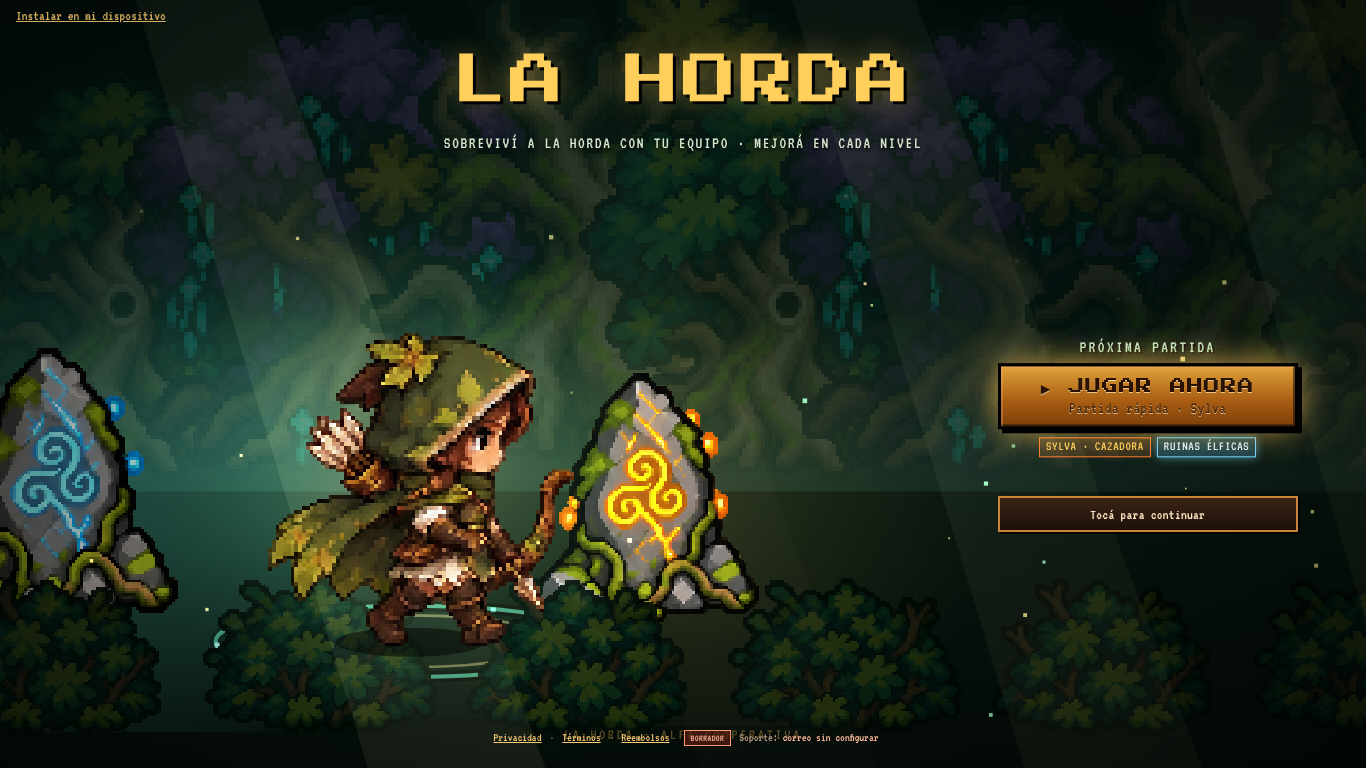
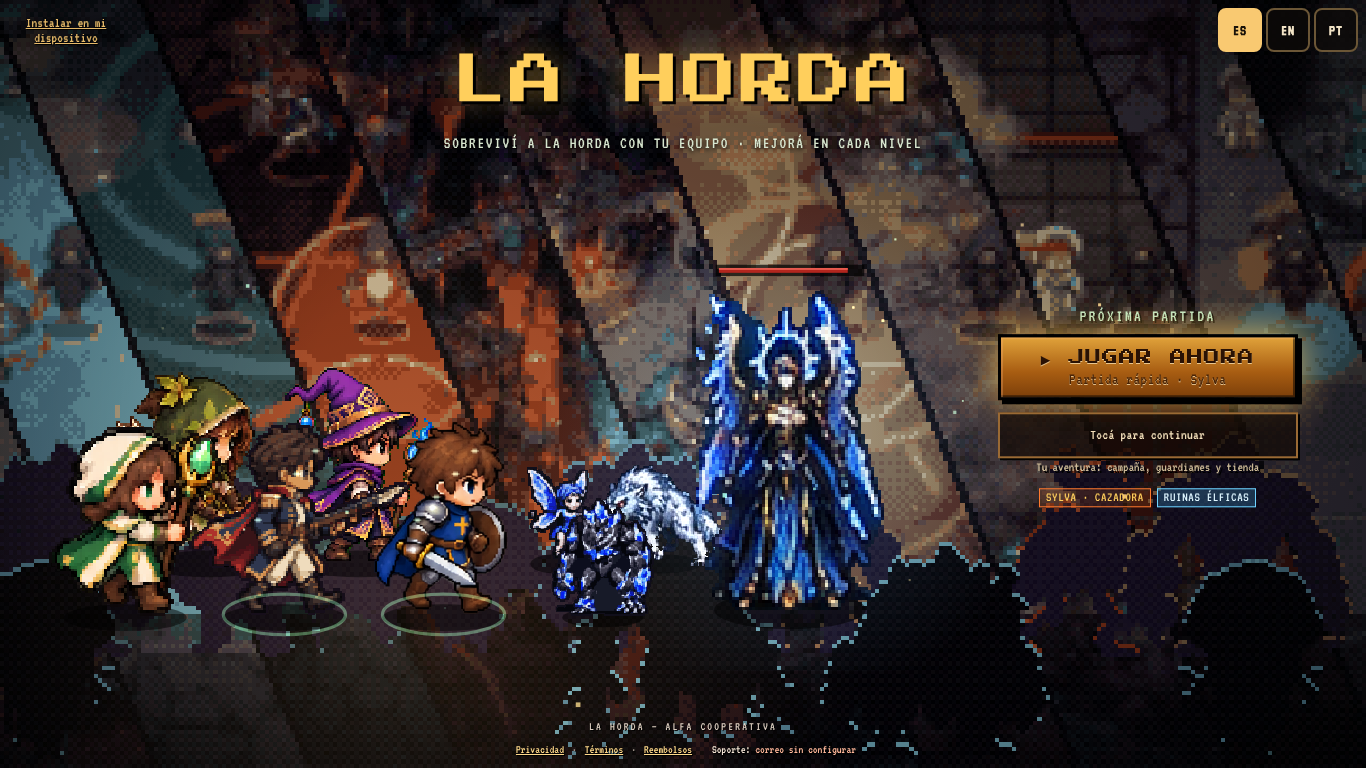
Título: columna de CTA con hermanos (#bt-cta / #bt-menu) para respetar el contrato three-ui-contracts; test i18n espera la carga del diccionario
Claude-Session: https://claude.ai/code/session_01LxJEcjGHLngn4o4wPZAHs2

diff --git a/css/title-polish.css b/css/title-polish.css
@@ -1,20 +1,20 @@
 /* css/title-polish.css — pantalla de título ordenada (carga tras menu-polish-d.css).
    Una sola columna de acción (JUGAR AHORA + acceso al menú/campaña), idioma arriba a la derecha, enlaces y pie apilados sin pisarse.
    Todo cuelga de #title-screen.bt-title; los nodos (#title-continue-btn, .lang-host, .legal-title, .build-tag) conservan id y eventos. */
-#title-screen.bt-title #bt-cta{ gap:10px; }
-#title-screen.bt-title #bt-cta .bt-cta-menu{ display:flex; flex-direction:column; align-items:stretch; gap:3px; }
+#title-screen.bt-title #bt-col{ gap:10px; }
+#title-screen.bt-title #bt-col .bt-cta-menu{ display:flex; flex-direction:column; align-items:stretch; gap:3px; }
 /* acceso al menú: mismo ancho que JUGAR AHORA, estilo secundario pero bien visible (anula beta-visual.css y ui-rework.css) */
-body #title-screen.bt-title #bt-cta #title-continue-btn{
+body #title-screen.bt-title #bt-col #title-continue-btn{
   position:static !important; max-width:none !important; inset:auto !important; transform:none !important; width:100% !important; height:auto !important; margin:0 !important;
   min-height:48px; padding:8px 12px; font-size:.95rem !important; line-height:1.2; letter-spacing:.04em; text-align:center; opacity:1;
   color:#ffe9c4; background:linear-gradient(180deg,#3a2415,#1d1009); border:3px solid #c9843a; box-shadow:var(--ui-bevel, none), 3px 3px 0 #000; z-index:4;
 }
-body #title-screen.bt-title #bt-cta #title-continue-btn::after{ content:none !important; display:none !important; }
-body #title-screen.bt-title #bt-cta #title-continue-btn:disabled{ opacity:.65; }
-body #title-screen.bt-title #bt-cta #title-continue-btn:not(:disabled):hover{ filter:brightness(1.15); }
-body #title-screen.bt-title #bt-cta #title-continue-btn:not(:disabled):active{ transform:translate(2px,2px) !important; box-shadow:1px 1px 0 #000; }
+body #title-screen.bt-title #bt-col #title-continue-btn::after{ content:none !important; display:none !important; }
+body #title-screen.bt-title #bt-col #title-continue-btn:disabled{ opacity:.65; }
+body #title-screen.bt-title #bt-col #title-continue-btn:not(:disabled):hover{ filter:brightness(1.15); }
+body #title-screen.bt-title #bt-col #title-continue-btn:not(:disabled):active{ transform:translate(2px,2px) !important; box-shadow:1px 1px 0 #000; }
 .bt-cta-menu-sub{ font-family:var(--ui-font, var(--font-retro)); font-size:1rem; line-height:1.1; color:#d9c7a4; text-shadow:2px 2px 0 #000; text-align:center; }
-#title-screen.bt-title #bt-cta .bt-cta-meta{ margin-top:2px; }
+#title-screen.bt-title #bt-col .bt-cta-meta{ margin-top:2px; }
 
 /* idioma: esquina superior derecha, compacto, 44 px de alto */
 #title-screen.bt-title > .lang-host{ position:absolute; top:max(8px, env(safe-area-inset-top)); right:max(8px, env(safe-area-inset-right)); margin:0; z-index:6; justify-content:flex-end; }
@@ -37,11 +37,15 @@ body #title-screen.bt-title > .build-tag{ bottom:calc(52px + env(safe-area-inset
   body #title-screen.bt-title > .build-tag{ bottom:calc(36px + env(safe-area-inset-bottom, 0px)); }
 }
 @media (max-height:420px){
-  #title-screen.bt-title #bt-cta{ gap:6px; width:min(270px, 44vw); top:46%; }
-  body #title-screen.bt-title #bt-cta #title-continue-btn{ min-height:46px; padding:6px 10px; font-size:.85rem !important; }
+  #title-screen.bt-title #bt-col{ gap:6px; width:min(270px, 44vw); top:46%; }
+  body #title-screen.bt-title #bt-col #title-continue-btn{ min-height:46px; padding:6px 10px; font-size:.85rem !important; }
   .bt-cta-menu-sub{ font-size:.9rem; }
 }
 @media (orientation:portrait){
-  #title-screen.bt-title #bt-cta{ bottom:16%; }
+  #title-screen.bt-title #bt-col{ bottom:16%; }
 }
 @media (max-height:420px){ #title-screen.bt-title #bt-cta .bt-cta-kick{ display:none; } }
+/* #bt-col (posición) contiene #bt-cta (kicker + JUGAR AHORA) y #bt-menu (continuar + chips): hermanos sin superposición */
+#title-screen.bt-title #bt-cta, #title-screen.bt-title #bt-menu{ display:flex; flex-direction:column; align-items:stretch; gap:inherit; }
+#title-screen.bt-title #bt-col{ gap:10px; }
+@media (max-height:520px){ #title-screen.bt-title #bt-col{ gap:6px; } }

diff --git a/js/beta/beta-ui.js b/js/beta/beta-ui.js
@@ -71,17 +71,21 @@
   const bg = document.createElement("div"); bg.id = "bt-bg"; bg.setAttribute("aria-hidden", "true");
   bg.innerHTML = '<div class="bt-bg-shade"></div>';
   const cv = document.createElement("canvas"); cv.id = "bt-hero-cv"; cv.setAttribute("aria-hidden", "true");
+  // #bt-col posiciona la columna; #bt-cta (kicker + JUGAR AHORA) y #bt-menu (acceso al menú/campaña + chips) son hermanos: no se superponen
+  const col = document.createElement("div"); col.id = "bt-col";
   const cta = document.createElement("div"); cta.id = "bt-cta";
   cta.innerHTML = '<div class="bt-cta-kick">PRÓXIMA PARTIDA</div>' +
-    '<button type="button" id="bt-play" class="btn bt-play" disabled><span class="bt-play-main">Cargando…</span><span class="bt-play-sub"></span></button>' +
-    '<div class="bt-cta-menu"><div class="bt-cta-menu-sub">Campaña, guardianes y tienda</div></div>' +
+    '<button type="button" id="bt-play" class="btn bt-play" disabled><span class="bt-play-main">Cargando…</span><span class="bt-play-sub"></span></button>';
+  const menuWrap = document.createElement("div"); menuWrap.id = "bt-menu";
+  menuWrap.innerHTML = '<div class="bt-cta-menu"><div class="bt-cta-menu-sub">Campaña, guardianes y tienda</div></div>' +
     '<div class="bt-cta-meta"><span class="ui-tag">Sylva · Cazadora</span><span class="ui-tag new">Ruinas Élficas</span></div>';
+  col.appendChild(cta); col.appendChild(menuWrap);
   scr.insertBefore(bg, scr.firstChild);
   const canvas0 = $("title-canvas");
   if(canvas0) canvas0.insertAdjacentElement("afterend", cv); else scr.appendChild(cv);
-  scr.appendChild(cta);
-  // el acceso al menú/campaña (mismo nodo, mismo id y eventos) pasa a la columna del CTA, justo bajo JUGAR AHORA
-  const contBtn0 = $("title-continue-btn"), menuBox = cta.querySelector(".bt-cta-menu");
+  scr.appendChild(col);
+  // el acceso al menú/campaña (mismo nodo, mismo id y eventos) va justo bajo JUGAR AHORA, en #bt-menu
+  const contBtn0 = $("title-continue-btn"), menuBox = menuWrap.querySelector(".bt-cta-menu");
   if(contBtn0 && menuBox) menuBox.insertBefore(contBtn0, menuBox.firstChild);
   scr.classList.add("bt-title");
 

diff --git a/css/beta-visual.css b/css/beta-visual.css
@@ -14,7 +14,7 @@
 .bt-title .title-brand{ text-shadow:3px 3px 0 #000, 0 0 28px rgba(255,200,90,.45); z-index:3; }
 .bt-title .brand-sub{ color:#d8e6cf; z-index:3; }
 
-#title-screen > #bt-cta{
+#title-screen > #bt-col{
   position:absolute; z-index:4; right:max(5%, env(safe-area-inset-right)); top:50%; transform:translateY(-38%);
   width:min(300px, 40vw); display:flex; flex-direction:column; align-items:stretch; gap:8px; text-align:center;
   animation:btCtaIn .7s var(--ui-ease, ease) .15s both;
@@ -45,14 +45,14 @@
 }
 .bt-title #title-continue-btn:disabled{ opacity:.6; }
 .bt-title.bt-launch > *{ transition:opacity .5s, filter .5s; }
-.bt-title.bt-launch #bt-cta, .bt-title.bt-launch #title-continue-btn{ opacity:0; }
+.bt-title.bt-launch #bt-col, .bt-title.bt-launch #title-continue-btn{ opacity:0; }
 .bt-title.bt-launch #bt-hero-cv{ transform:scale(1.18); transition:transform .55s cubic-bezier(.5,0,.2,1), opacity .5s; opacity:.0; }
 .bt-title.bt-launch #bt-hero-cv{ opacity:0; transition:opacity .4s; }
 @media (max-height:420px){
-  #title-screen > #bt-cta{ width:min(260px, 42vw); gap:5px; }
+  #title-screen > #bt-col{ width:min(260px, 42vw); gap:5px; }
   .bt-play{ min-height:54px; padding:8px 10px 6px; } .bt-play-main{ font-size:.85rem; } .bt-cta-kick{ font-size:.9rem; }
 }
-@media (orientation:portrait){ #title-screen > #bt-cta{ right:50%; transform:translate(50%,0); top:auto; bottom:18%; width:min(320px, 80vw); animation:none; } }
+@media (orientation:portrait){ #title-screen > #bt-col{ right:50%; transform:translate(50%,0); top:auto; bottom:18%; width:min(320px, 80vw); animation:none; } }
 @media (prefers-reduced-motion:reduce){ #bt-bg, .bt-play, .bt-play::after{ animation:none !important; } }
 body.reduce-motion .bt-play, body.reduce-motion .bt-play::after{ animation:none !important; }
 

diff --git a/css/ux-simplify-b.css b/css/ux-simplify-b.css
@@ -5,13 +5,13 @@
    ============================================================ */
 
 /* ---------- TÍTULO: JUGAR AHORA manda; "Tocá para continuar" es secundario ---------- */
-html body #title-screen.bt-title #bt-cta #title-continue-btn{
+html body #title-screen.bt-title #bt-col #title-continue-btn{
   min-height:44px; padding:6px 10px; font-size:.8rem !important; letter-spacing:.02em; font-weight:400;
   color:#f2dfba; background:rgba(18,10,6,.72); border:2px solid #9a6a34; box-shadow:2px 2px 0 #000; }
-html body #title-screen.bt-title #bt-cta #title-continue-btn:disabled{ opacity:.65; }
-html body #title-screen.bt-title #bt-cta .bt-cta-menu{ gap:2px; margin-top:2px; }
-html body #title-screen.bt-title #bt-cta .bt-cta-menu-sub{ font-size:.85rem; color:#cdbb98; line-height:1.15; }
-@media (min-width:900px) and (min-height:560px){ html body #title-screen.bt-title #bt-cta #title-continue-btn{ font-size:.9rem !important; min-height:46px; } }
+html body #title-screen.bt-title #bt-col #title-continue-btn:disabled{ opacity:.65; }
+html body #title-screen.bt-title #bt-col .bt-cta-menu{ gap:2px; margin-top:2px; }
+html body #title-screen.bt-title #bt-col .bt-cta-menu-sub{ font-size:.85rem; color:#cdbb98; line-height:1.15; }
+@media (min-width:900px) and (min-height:560px){ html body #title-screen.bt-title #bt-col #title-continue-btn{ font-size:.9rem !important; min-height:46px; } }
 
 /* ---------- HUB: cabecera ---------- */
 #mainmenu-screen .hub-top .ux-help-btn{ width:auto; min-width:44px; padding:0 10px; display:inline-flex; align-items:center; gap:6px; }

diff --git a/tools/i18n/test-i18n.js b/tools/i18n/test-i18n.js
@@ -33,7 +33,7 @@ const fail=[];const ok=(c,m)=>{if(!c){fail.push(m);console.log('FAIL',m);}else c
   await boot('?lang=en');ok(await page.evaluate(()=>I18N.lang)==='en','?lang=en manda sobre lo guardado');
   // números: plantillas {n} conservan los valores
   const t=await page.evaluate(()=>I18N.t('Vida 3/10'));ok(t==='Health 3/10','plantilla numérica: '+t);
-  const p=await page.evaluate(async()=>{I18N.setLang('pt');await new Promise(r=>setTimeout(r,50));return I18N.t('Ilkan, el Caminante de Dunas · colección');});ok(/coleção/.test(p)&&/Caminhante/.test(p),'patrón de colección PT: '+p);
+  await page.evaluate(()=>I18N.setLang('pt'));await page.waitForFunction(()=>I18N.lang==='pt',null,{timeout:20000});const p=await page.evaluate(()=>{return I18N.t('Ilkan, el Caminante de Dunas · colección');});ok(/coleção/.test(p)&&/Caminhante/.test(p),'patrón de colección PT: '+p);
   // canvas
   const cv=await page.evaluate(()=>{const c=document.createElement('canvas').getContext('2d');let out='';const o=c.fillText;c.fillText('Pausa',0,0);return c.measureText('Pausar partida').width>0;});ok(cv,'canvas sigue midiendo texto traducido');
   ok(errs.length===0,'sin errores de página '+errs.slice(0,2));

diff --git a/css/ui-factory/menus-touch.css b/css/ui-factory/menus-touch.css
@@ -65,5 +65,5 @@
   #title-screen.bt-title #title-continue-btn{ top:auto; bottom:calc(60px + env(safe-area-inset-bottom,0px)); min-height:44px; }
 }
 @media (max-height:360px) and (orientation:landscape){
-  #title-screen.bt-title > #bt-cta{ top:calc(50% - 16px); }
+  #title-screen.bt-title > #bt-col{ top:calc(50% - 16px); }
 }
